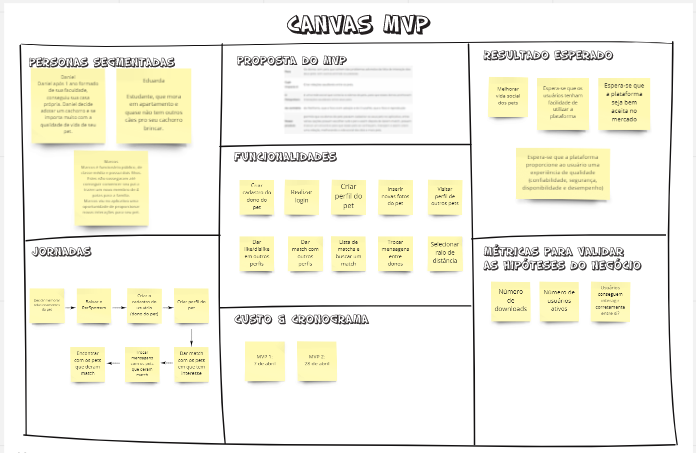
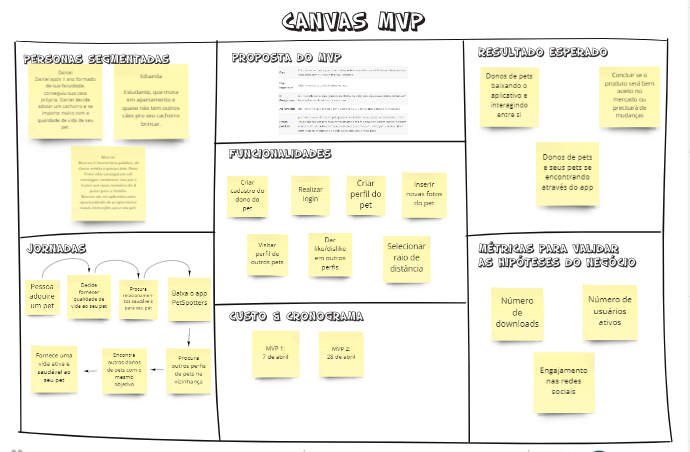
fix pontos a concertar pela revisão do professor

Changed region(s): [[0.0, 0.0, 0.9739, 1.0], [0.0, 0.9912, 0.0304, 1.0]]

diff --git a/docs/Unidade_2/visaoGeral.md b/docs/Unidade_2/visaoGeral.md
@@ -98,9 +98,9 @@ O objetivo principal do PetSpotters é que os donos de pets melhorem a vida soci
 <br>
 
 ## 1.5 Requisitos com padrão SAFe
-
+<!--
 <span style="color:red">Essa estrutura precisa ser revista. Existem vários relacionamentos 1..1 entre features e histórias. Por favor, corrijam</span>
-
+-->
 ![SAFE](../../assets/img/Safe.png)
 
 ## 1.6 Mínimo Produto Viável (MVP)
@@ -108,13 +108,13 @@ O objetivo principal do PetSpotters é que os donos de pets melhorem a vida soci
 ## Canvas MVP
 
 O Canvas MVP da plataforma PetStoppers foi realizado e obtivemos a seguinte configuração incial:
-
+<!--
 <span style="color:red">A jornada refere-se ao que a persona faz, atualmente, e não o que ela irá fazer com a utilização da solução. Nesse momento, não se tem nem os requisitos funcionais. Esses são extraídos, justamente, das jornadas</span>
 
 <span style="color:red">A nomemclatura e conteúdo de fundionalidades está diferente da seção 1.4.1. Requisitos Funcionais do documento de Visão.</span>
 
 <span style="color:red">cada resultado esperado deve ser passível de mensuração. Como mensurar, por exemplo, "Melhorar vida social dos pets"?</span>
-
+-->
 ![Canvas](../../assets/img/Canvas.png)
 
 <a href="https://miro.com/app/board/uXjVOKrgeb4=/">Link para o Canvas</a>

diff --git a/docs/Unidade_2/visaoGeralProjeto.md b/docs/Unidade_2/visaoGeralProjeto.md
@@ -23,11 +23,11 @@
 | Sprint 3 | RF e RNFs(SAFe) | 08/02 | 15/02 |
 | Sprint 4 | Canvas MVP, KanBan e Visão do Projeto | 17/02 | 24/02 |
 | Sprint 5 | Preparação do Ambiente React Native e Expo | 01/03 | 08/03 |
-| Sprint 6 | US01 e US02  | 10/03 | 17/03 |
-| Sprint 7 |  US04 e US06 | 22/03 | 29/03 |
-| Sprint 8 | US11, US12 e US13 | 31/03 | 07/04 |
-| Sprint 9 | US14, US15 e US16 | 12/04 | 19/04 |
-| Sprint 10 | US17 e US07 | 21/04 | 28/04 |
+| Sprint 6 | US01 **a** US05  | 10/03 | 17/03 |
+| Sprint 7 |  US08 e US11 | 22/03 | 29/03 |
+| Sprint 8 | US09, US16 e US17 | 31/03 | 07/04 |
+| Sprint 9 | US18, US19 e US20 | 12/04 | 19/04 |
+| Sprint 10 | US12 e US21 | 21/04 | 28/04 |
 
 <br>
 
